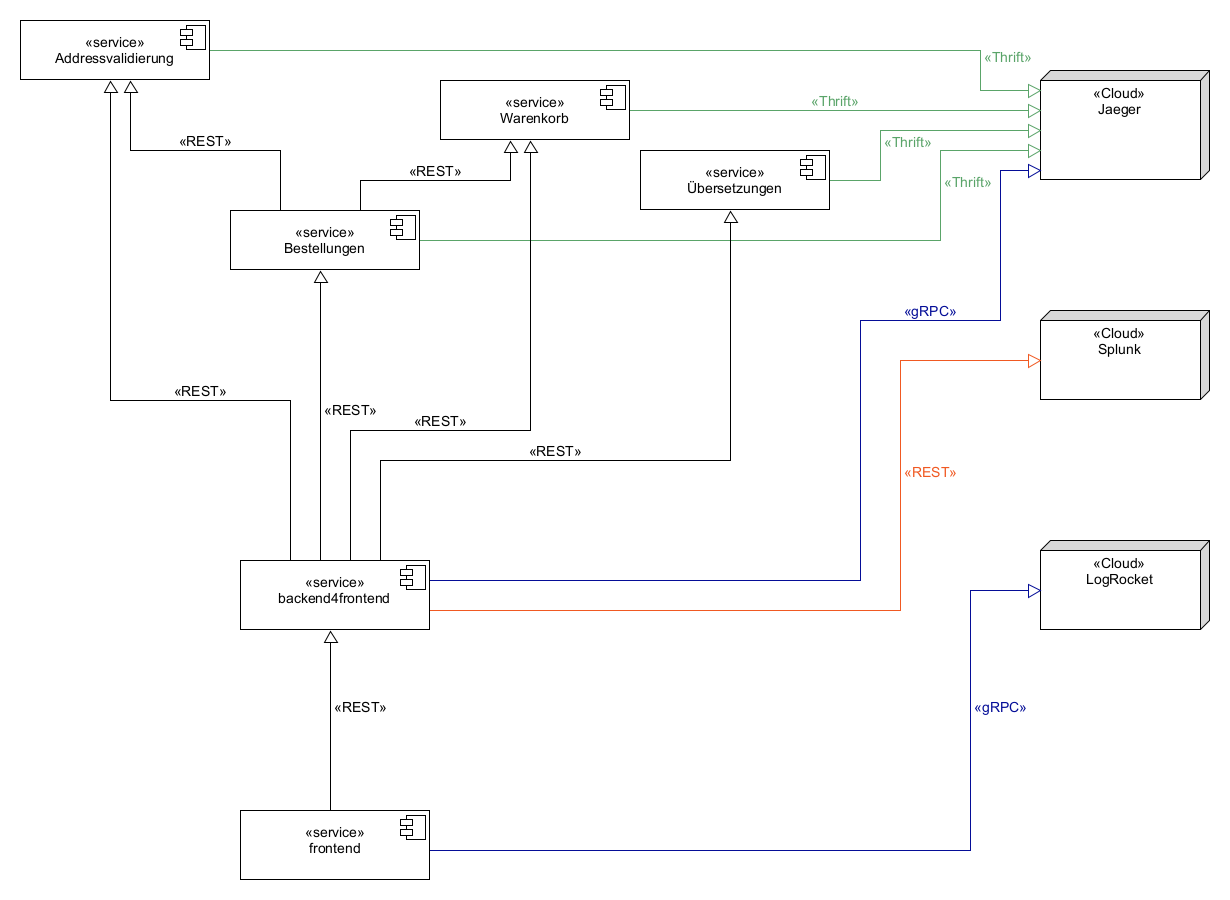
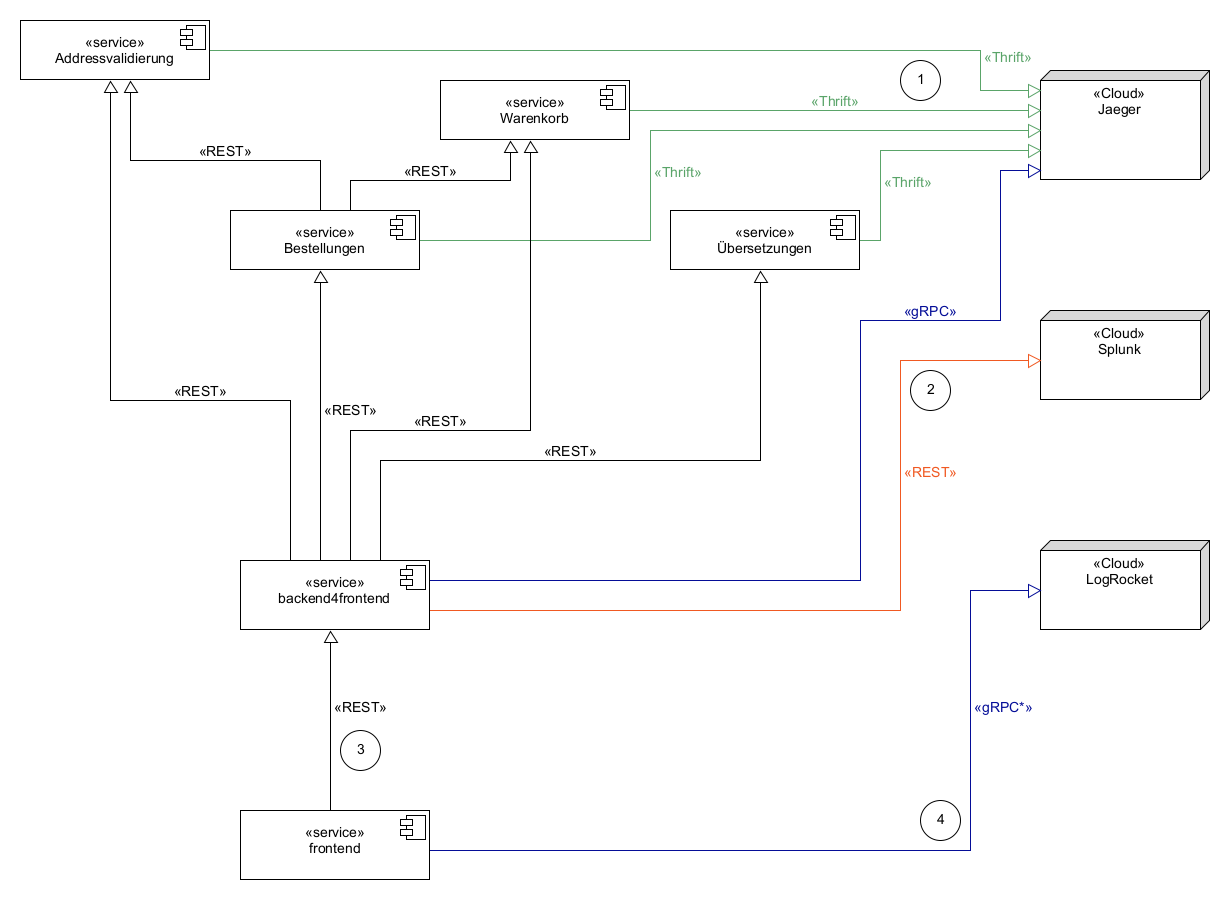
[ELAB-434] extend explanation of the solution

diff --git a/content/04_erstellung-poc/implementierung-code/record-consent-dialog.component.ts b/content/04_erstellung-poc/implementierung-code/record-consent-dialog.component.ts
@@ -1,0 +1,28 @@
+export class RecordConsentDialogComponent {
+  constructor(
+    public dialogRef: MatDialogRef<RecordConsentDialogComponent>,
+    @Inject(APP_CONFIG) private config: AppConfig
+  ) { }
+
+  closeDialog() {
+    this.dialogRef.close(window.logrocketData.sessionURL);
+  }
+
+  activateLogRocket() {
+    // initialize session recording
+    LogRocket.init(this.config.logRocketAppId, {});
+
+    // start a new session
+    LogRocket.startNewSession();
+
+    // pass unique "session"-id to LogRocket
+    LogRocket.identify(window.customer.shoppingCartId);
+
+    // make sessionURL accessable
+    LogRocket.getSessionURL((sessionURL) => {
+      window.logrocketData.sessionURL = sessionURL;
+
+      this.dialogRef.close(sessionURL);
+    });
+  }
+}

diff --git a/content/04_erstellung-poc/implementierung-code/tracing_localization.service.ts b/content/04_erstellung-poc/implementierung-code/tracing_localization.service.ts
@@ -12,10 +12,9 @@ export class LocalizationService {
     this.log.info('getTranslations(): requesting translations');
     
     // start span with provided span as a parent
-    const span = this.tracer.startSpan(
-      'LocalizationService.getTranslations',
-      { /* attributes */},
-      parentSpan && api.setSpan(api.context.active(), parentSpan)
+    const span = this.traceUtil.startChildSpan(
+        this.tracer, 'LocalizationService.getTranslations', parentSpan,
+        { 'shoppingCartId': window.customer.shoppingCartId }
     );
 
     // generate a jaeger-compatible trace header from OTel span

diff --git a/content/04_erstellung-poc/implementierung-code/record-consent-dialog.component.html b/content/04_erstellung-poc/implementierung-code/record-consent-dialog.component.html
@@ -1,0 +1,12 @@
+<h1 mat-dialog-title>Einverständnis zur Aufnahme Ihrer Sitzung</h1>
+<div mat-dialog-content>
+  <!-- Textinhalt -->
+</div>
+<div mat-dialog-actions class="cardActions">
+  <button mat-raised-button (click)="closeDialog()" color="primary">
+    Abbrechen
+  </button>
+  <button mat-raised-button (click)="activateLogRocket()" color="accent">
+    Akzeptieren
+  </button>
+</div>

diff --git a/content/04_erstellung-poc/implementierung.tex b/content/04_erstellung-poc/implementierung.tex
@@ -21,11 +21,18 @@ captionpos = b,
 \label{fig:implementierung_jaeger-trace-example}
 \end{wrapfigure}
 
-In Jaeger erzeugt der o. g. Quellcode die in \autoref{fig:implementierung_jaeger-trace-example} zu sehenden Spans. Neben den Traces werden keine weiteren Daten von Backend-Komponenten erhoben, da das Hauptaugenmerk der Arbeit im Frontend liegt.
+In Jaeger erzeugt der o. g. Quellcode die in \autoref{fig:implementierung_jaeger-trace-example} zu sehenden Spans. Neben den Traces werden keine weiteren Daten von Backend-Komponenten erhoben, da das Hauptaugenmerk der Arbeit im Frontend liegt. Jedoch wird der Dienst \enquote{Backend4Frontend} dazu verwendet, die Daten aus dem Frontend an die Partnersysteme weiterzuleiten, wie im nächsten Abschnitt erläutert wird.
 
 \subsection{Frontend}
 
+\subsubsection{Datenweiterleitung im \enquote{Backend4Frontend}}
+
+Da Logs, Metriken und Fehler mit Splunk gesammelt werden, aber Splunk keine direkt aus dem Browser ansprechbare Schnittstelle bietet, müssen diese über einen Dienst vorher an Splunk weitergeleitet werden (vgl. \autoref{subsec:splunk}). Diese Einschränkung von Splunk geht jedoch damit einher, dass Splunk von der \enquote{Außenwelt} abgeschottet wird, sodass Unbefugte nicht Zugriff auf das System erhalten. Im weiterleitenden Dienst könnten zuvor die Daten validiert und gefiltert werden. Somit ist also ein weiterleitender Dienst notwendig, aber auch architektonisch sinnvoll. Weiterhin sind Tracingdaten an Jaeger zu berichten, dies ist aber erneut nicht möglich, da kein browserkompatibler Jaeger-Client identifiziert werden konnte. Dies wird in \autoref{subsec:traces-und-metriken} näher erläutert.
+
+Da der Dienst \enquote{Backend4Frontend} bereits zum Weiterleiten verwendet wird, wurde dieser erweitert, sodass er Traces, Logs, Metriken sowie Fehler entgegennehmen kann und diese an Jaeger bzw. Splunk sendet. Vor der eigentlichen Weiterleitung werden die Daten mit Kontextinformationen angereichert, wie der User-IP, der Browserversion usw. an. Die Traces werden dann über eine OpenTelemetry-Anbindung an Jaeger gesendet, die anderen Daten werden an die HEC-Schnittstelle \cite{SplunkHEC} von Splunk übertragen.
+
 \subsubsection{Traces und Metriken}
+\label{subsec:traces-und-metriken}
 
 Das Frontend erhebt ebenso wie das Backend Traces, aber zusätzlich werden auch Metriken, Logmeldungen und Fehler erhoben und gemeldet. Traces und Metriken werden auf Basis von OpenTelemetry JavaScript Komponenten \cite{OpenTelemetryJS} erhoben. Genauer werden diese Komponenten in einem Angular Modul (siehe \autoref{lst:app-observability}) initialisiert und der restlichen Anwendung über \enquote{providers} zur Verfügung gestellt. Hierbei wird der SPA ein \texttt{Tracer} bereitgestellt, mit dem Spans aufgezeichnet werden können, ein \texttt{Meter}, welcher es erlaubt Metriken zu erstellen, und eine \texttt{requestCounter}-Metrik, welches die Aufzeichnung der Aufrufanzahl schnittstellenübergreifend erlaubt.
 
@@ -60,11 +67,11 @@ captionpos = b,
      label = lst:localization.service
 ]{content/04_erstellung-poc/implementierung-code/tracing_localization.service.ts}
 
-Es wurde sich für die OpenTelemetry Implementierung für Tracing und Metriken im Frontend entschieden, da wie in \autoref{subsec:opentelemetry} beschrieben, OpenTelemetry einen vielversprechenden Standard darstellt. Weiterhin konnte keine Bibliothek identifiziert werden, die die Traces erhebt und direkt nach Jaeger sendet. Es gibt zwar einen Jaeger-Client für Node.js\footnote{Jaeger-Client für Node.js: \url{https://github.com/jaegertracing/jaeger-client-node}}, jedoch befindet sich das browserkompatible Pendant\footnote{Jaeger-Client für Browser: \url{https://github.com/jaegertracing/jaeger-client-javascript/}} seit 2017 in den Startlöchern. Weiterhin existiert ein OTel Exporter für Jaeger\footnote{OTel Jaeger Exporter: \url{https://github.com/open-telemetry/opentelemetry-js/tree/main/packages/opentelemetry-exporter-jaeger}}, welcher jedoch auch nur mit Node.js funktioniert. Grund hierfür ist, dass das zugrundeliegende Protokoll gRPC \cite{grpc} nicht komplett aus einer Browserumgebung aus unterstützt wird \cite{grpcWebLimitations}.
+Es wurde sich für die OpenTelemetry Implementierung für Tracing und Metriken im Frontend entschieden, da wie in \autoref{subsec:opentelemetry} beschrieben, OpenTelemetry einen vielversprechenden Standard darstellt. Weiterhin konnte keine Bibliothek identifiziert werden, die die Traces erhebt und direkt nach Jaeger sendet. Es gibt zwar einen Jaeger-Client für Node.js\footnote{Jaeger-Client für Node.js: \url{https://github.com/jaegertracing/jaeger-client-node}}, jedoch befindet sich das browserkompatible Pendant\footnote{Jaeger-Client für Browser: \url{https://github.com/jaegertracing/jaeger-client-javascript/}} seit 2017 in den Startlöchern \cite{JaegerJSClientUsageInABrowser}. Weiterhin existiert ein OTel Exporter für Jaeger\footnote{OTel Jaeger Exporter: \url{https://github.com/open-telemetry/opentelemetry-js/tree/main/packages/opentelemetry-exporter-jaeger}}, welcher jedoch auch nur mit Node.js funktioniert. Grund hierfür ist, dass das zugrundeliegende Protokoll gRPC \cite{grpc} nicht komplett aus einer Browserumgebung aus unterstützt wird \cite{grpcWebLimitations}.
 
 \nomenclature[Fachbegriff]{gRPC}{gRPC Remote-Procedure-Call}
 
-Die gesammelten OTel Tracingdaten werden über einen Standard-Exporter an das \enquote{Backend4Frontend} gesendet, welcher diese dann in ein Jaeger-konformes Format umwandelt und sie dann subsequent an Jaeger übertragt. Die Metrikdaten werden jedoch bereits im Frontend konvertiert, in ein Splunk-kompatibles Logformat. Nach der Konvertierung werden die Daten an den \texttt{SplunkForwardingService} übergeben, welcher im folgenden Abschnitt näher beschrieben wird.
+Die gesammelten OTel Tracingdaten werden über einen Standard-Exporter an das \enquote{Backend4Frontend} gesendet, welcher diese dann in ein Jaeger-konformes Format umwandelt und sie dann subsequent an Jaeger übertragt. Die Metrikdaten werden jedoch bereits im Frontend in ein Splunk-kompatibles Logformat konvertiert. Nach der Konvertierung werden die Daten an den \texttt{SplunkForwardingService} übergeben, welcher im folgenden Abschnitt näher beschrieben wird.
 
 \subsubsection{Logging}
 
@@ -79,7 +86,7 @@ captionpos = b,
      label = lst:logging_app.module
 ]{content/04_erstellung-poc/implementierung-code/logging_app.module.ts}
 
-Wie in den vorherigen Codebeispielen zum Tracing zu sehen war, kann ein \texttt{NGXLogger} im Konstruktor von Komponenten und Diensten injected werden. Logmeldungen die hiermit erfasst werden, werden je nach Konfiguration und Loglevel der jeweiligen Meldung in die Browserkonsole geschrieben. Über einen \texttt{NGXLoggerMonitor} lassen sich die Logmeldungen anzapfen, wie in \autoref{lst:splunk-logging-monitor} zu sehen ist. Hierbei werden die Logmeldungen in ein Splunkformat übertragen und dann über den \texttt{SplunkForwardingService} an das \enquote{Backend4Frontend} übertragen. Eine direkte Übertragung an Splunk ist nicht möglich, da Splunk nicht mit kompatiblen CORS-Headern antwortet. Das Backend4Frontend reichert neben dem Weiterleiten auch die Meldungen mit Kontextinformationen, wie der User-IP, der Browserversion usw. an.
+Wie in den vorherigen Codebeispielen zum Tracing zu sehen war, kann ein \texttt{NGXLogger} im Konstruktor von Komponenten und Diensten injected werden. Logmeldungen die hiermit erfasst werden, werden je nach Konfiguration und Loglevel der jeweiligen Meldung in die Browserkonsole geschrieben. Über einen \texttt{NGXLoggerMonitor} lassen sich die Logmeldungen anzapfen, wie in \autoref{lst:splunk-logging-monitor} zu sehen ist. Hierbei werden die Logmeldungen in ein Splunkformat übertragen und dann über den \texttt{SplunkForwardingService} an das \enquote{Backend4Frontend} übertragen.
 
 \lstinputlisting[
   language = JavaScript,
@@ -107,15 +114,46 @@ captionpos = b,
 
 \subsubsection{Session-Replay}
 
-LogRocket wird standardmäßig nicht aktiv, außer wenn der Nutzer explizit der Aufzeichnung zustimmt \citationneeded{}. Dies bedeutet jedoch auch, dass bis zur Zustimmung keine Sitzungsdaten aufgenommen wurden. Wenn der Nutzer zustimmt, wird, wie im \autoref{lst:session-replay_checkout.component} zu sehen ist, LogRocket initialisiert und mit identifizierenden Daten angereichert. Nach dem Warenkorbdialog und nach der Eingabe der Rechnungsadresse werden zudem weitere identifizierende Daten an LogRocket übermittelt. Die Aufnahme der Sitzung läuft größtenteils autonom, lediglich behandelte Fehler müssen LogRocket manuell übermittelt werden.
+\begin{wrapfigure}[10]{r}{0.27\textwidth}
+\centering
+\includegraphics[width=\linewidth]{img/04_erstellung-poc/implementierung_frontend_recording-consent_button-inactive.png}
+\caption{Button zum Öffnen des Dialogs}
+\label{fig:recording-consent_button-inactive}
+\end{wrapfigure}
+
+LogRocket wird standardmäßig nicht aktiv, außer wenn der Nutzer explizit der Aufzeichnung zustimmt. Dies bedeutet jedoch auch, dass bis zur Zustimmung keine Sitzungsdaten aufgenommen wurden. Klickt der Nutzer jedoch auf den, unten rechts in der Anwendung schwebenden, Button (vgl. \autoref{fig:recording-consent_button-inactive}), wird ein Einverständnis-Dialog geöffnet. Hierbei (vgl. \autoref{fig:recording-consent_dialog-inactive}) erhält der Nutzer eine Übersicht welche Daten aufgenommen werden und an wen diese dann weitergesendet werden. Stimmt der Nutzer zu, wird LogRocket initialisiert, wie im \autoref{lst:record-consent-dialog.component.html} sowie \autoref{lst:record-consent-dialog.component.ts} zu sehen ist. Nach dem Warenkorbdialog und nach der Eingabe der Rechnungsadresse werden zudem weitere identifizierende Daten an LogRocket übermittelt. Die Aufnahme der Sitzung läuft größtenteils autonom, lediglich behandelte Fehler müssen LogRocket manuell übermittelt werden.
+	
+\begin{figure}[H]
+	\centering
+	\includegraphics[width=1.00\linewidth]{img/04_erstellung-poc/implementierung_frontend_recording-consent_dialog-inactive.png}
+	\caption{Einverständnis-Dialog}
+	\label{fig:recording-consent_dialog-inactive}
+\end{figure}
+
+\lstinputlisting[
+  language = AngularTemplateHTML,
+basicstyle = {\footnotesize\fontfamily{pcr}\selectfont},
+   caption = Angular HTML-Template der Einverständnis-Komponente,
+captionpos = b,
+     label = lst:record-consent-dialog.component.html
+]{content/04_erstellung-poc/implementierung-code/record-consent-dialog.component.html}
 
 \lstinputlisting[
   language = JavaScript,
      style = ES6,
 basicstyle = {\footnotesize\fontfamily{pcr}\selectfont},
-   caption = Initialisierung von LogRocket in der Hauptkomponente,
+   caption = Initialisierung von LogRocket in der Einverständnis-Komponente,
 captionpos = b,
-     label = lst:session-replay_checkout.component
-]{content/04_erstellung-poc/implementierung-code/session-replay_checkout.component.ts}
+     label = lst:record-consent-dialog.component.ts
+]{content/04_erstellung-poc/implementierung-code/record-consent-dialog.component.ts}
 
-\subsubsection{Datenweiterleitung im \enquote{Backend4Frontend}}
+\subsection{Architektur}
+
+Abschließend lässt sich somit folgende, in \autoref{fig:implementierung_architektur} zu betrachtende, Architektur visualisieren. Bei \circled{1} lässt sich die Übertragung von Spans an Jaeger betrachten, bei dem die Backend-Dienste aufgrund der verwendeten Java-Anbindung (\texttt{io\allowbreak{}.\allowbreak{}jaegertracing\allowbreak{}:\allowbreak{}jaeger-client}) die Spans über das Protokoll \enquote{Apache Thrift} \cite{Thrift} berichten und das \enquote{Backend4Frontend} verwendet zur Weiterleitung eine OTel-Anbindung an Jaeger, die widerum gRPC verwendent. Die Übertragung von Log-, Metrik sowie Fehlerdaten lässt sich bei \circled{2} betrachten, dabei handelt es sich um Daten, die zuvor vom Frontend gesendet wurden (vgl. \circled{3}). Die Kommunikation mit LogRocket (vgl. \circled{4}) funktioniert hingegen ohne Weiterleitung und über eine proprietäre Kommunikation auf Basis von gRPC.
+
+\begin{figure}[H]
+	\centering
+	\includegraphics[width=1.00\linewidth]{img/04_erstellung-poc/implementierung.png}
+	\caption{Architektur des Proof-of-Concepts}
+	\label{fig:implementierung_architektur}
+\end{figure}

diff --git a/content/04_erstellung-poc/vorstellung-demoanwendung.tex b/content/04_erstellung-poc/vorstellung-demoanwendung.tex
@@ -1,6 +1,6 @@
 % \section{Vorstellung der Demoanwendung}
 
-Wie zuvor erwähnt wird zunächst eine Demoanwendung erstellt. Dieser Abschnitt beschäftigt sich mit der Vorstellung der Demoanwendung, wie diese aufgebaut ist und was für eine Art von Webanwendung sie repräsentiert.
+Wie zuvor erwähnt wird zunächst eine Demoanwendung erstellt, an der das zu erstellende Konzept anzuwenden ist. Dieser Abschnitt beschäftigt sich mit der Vorstellung der Demoanwendung, wie diese aufgebaut ist und was für eine Art von Webanwendung sie repräsentiert.
 
 In der Motivation ist ein konkretes Problem eines Kunden der Open Knowledge genannt. Damit die Demoanwendung realistisch eine moderne Webanwendung \cite{RichWebBasedApplications} darstellt, wird sie in Grundzügen den Aufbau der Webanwendung des Direktversicherers nachahmen. Bei der Webanwendung handelt es sich um einen Wizard \cite{EzMolAWebServerWizard}, also einer Sequenz von aufeinanderfolgenden Dialogseiten bei dem der Nutzer Daten eingeben soll. Bei der Webanwendung handelt es sich um eine clientbasierte Angular-SPA. Die Webanwendung validiert einzelne Felder gegen Partnersysteme (bspw. beim Adressfeld). Am Ende des Wizards werden die gesamten Daten an ein weiteres Partnersystem übermittelt, welches darauf basierend eine Berechnung durchführt und das Ergebnis dann an die Webanwendung sendet.
 
@@ -168,9 +168,9 @@ Wie in \autoref{anf:1020} definiert wurden in das Frontend einige Fehler eingeba
 \subsection{Fehlerszenarien}
 \label{subsec:fehlerszenarien}
 
-Wie zuvor erwähnt und in \autoref{anf:1020} gewünscht, besitzt die Demoanwendung einige simulierte Fehler. Diese Fehler wurden in Zusammenarbeit mit den Stakeholdern konzipiert. Bei der Konzeption wurde versucht möglichst realitätsnahe oder sogar tatsächlich beim Kunden aufgetretene Probleme einzubauen.
+Um später mithilfe der Observability-Werkzeuge Probleme aufzudecken, besitzt die Demoanwendung einige simulierte problembehaftete Implementierungen. Diese Fehler wurden in Zusammenarbeit mit den Stakeholdern konzipiert. Bei der Konzeption wurde versucht möglichst realitätsnahe oder sogar tatsächlich beim Kunden aufgetretene Probleme einzubauen.
 
-Diese Fehler gehören unterschiedlichen Problemgruppen an, sie reichen von unerwünscht strenger Validierung, über Konfigurationsfehlern bis hin zu ineffizienter Datenverarbeitung. Sie werden folgen in Fehlerszenarien beschrieben, aus der Sicht eines Projektteams, welches diese Szenarien berichtet bekommen oder selbst notiert hat.
+Diese Fehler gehören unterschiedlichen Problemgruppen an, sie reichen von unerwünscht strenger Validierung, über Konfigurationsfehlern bis hin zu ineffizienter Datenverarbeitung. Sie werden folgend in Fehlerszenarien beschrieben, aus der Sicht eines Projektteams, welches diese Szenarien berichtet bekommen oder selbst notiert hat.
 
 \subsubsection{\enquote{Keine Übersetzungen}}
 

diff --git a/content/00_preamble/configuration.tex b/content/00_preamble/configuration.tex
@@ -49,7 +49,7 @@
 	\begin{table}[H]
 	\begin{tabular}{ |p{1.25cm}|p{5.5cm}|p{2.25cm}|p{2.1cm}|p{1.25cm}| }
 \hline
-Id   & Name          & Kano-Modell  & Funktionsart & Quelle       \\
+Id	 & Name					& Kano-Modell	& Funktionsart & Quelle			 \\
 #2 & #3 & #4 & #5 & #6 \\
 \hline
 }%
@@ -90,6 +90,49 @@ Id   & Name          & Kano-Modell  & Funktionsart & Quelle       \\
 	morecomment=[l]{\#},
 	morestring=[b]",
 	morestring=[b]',
+	% fix umlaute causing issues
+	% https://tex.stackexchange.com/questions/24528/having-problems-with-listings-and-utf-8-can-it-be-fixed/24529
+	extendedchars=true,
+	literate={ä}{{\"a}}1 {ö}{{\"o}}1 {ü}{{\"u}}1 {Ä}{{\"A}}1 {Ö}{{\"O}}1 {Ü}{{\"U}}1 {ß}{{\ss}}1,
+}
+
+\lstdefinelanguage{AngularTemplateHTML}{
+	language=html,
+	sensitive=true,	
+	alsoletter={<>=-},
+	morecomment=[s]{<!-}{-->},
+	tag=[s],
+	otherkeywords={
+	% General
+	>,
+	% Standard tags
+	<!DOCTYPE,
+	</html, <html, <head, <title, </title, <style, </style, <link, </head, <meta, />,
+	% body
+	</body, <body,
+	% Divs
+	</div, <div, </div>, 
+	% Paragraphs
+	</p, <p, </p>, </h1, <h1, </h2, <h2, </h3, <h3, </h4, <h4, </h5, <h5, </h6, <h6,
+	% scripts
+	</script, <script,
+	% More tags...
+	<canvas, /canvas>, <svg, <rect, <animateTransform, </rect>, </svg>, <video, <source, <iframe, </iframe>, </video>, <image, </image>, <header, </header, <article, </article, <button, </button
+	},
+	ndkeywords={
+	% General
+	=,
+	% HTML attributes
+	charset=, src=, id=, width=, height=, style=, type=, rel=, href=, class=, color=, (click)=,
+	% SVG attributes
+	fill=, attributeName=, begin=, dur=, from=, to=, poster=, controls=, x=, y=, repeatCount=, xlink:href=,
+	% properties
+	margin:, padding:, background-image:, border:, top:, left:, position:, width:, height:, margin-top:, margin-bottom:, font-size:, line-height:,
+	% CSS3 properties
+	transform:, -moz-transform:, -webkit-transform:,
+	animation:, -webkit-animation:,
+	transition:,	transition-duration:, transition-property:, transition-timing-function:,
+	},
 	% fix umlaute causing issues
 	% https://tex.stackexchange.com/questions/24528/having-problems-with-listings-and-utf-8-can-it-be-fixed/24529
 	extendedchars=true,

diff --git a/content/00_preamble/js_listing.tex b/content/00_preamble/js_listing.tex
@@ -21,12 +21,13 @@
 
 \lstdefinelanguage{JavaScript}{
   morekeywords=[1]{break, continue, delete, else, for, function, if, in,
-    new, return, this, typeof, var, void, while, with},
+    new, return, this, typeof, var, void, while, with, =>, constructor, window, class, interface, enum, declare, const, var, typeof},
   % Literals, primitive types, and reference types.
   morekeywords=[2]{false, null, true, boolean, number, undefined,
-    Array, Boolean, Date, Math, Number, String, Object},
+    Array, Boolean, Date, Math, Number, String, Object, void, any, string, private, public, protected},
   % Built-ins.
-  morekeywords=[3]{eval, parseInt, parseFloat, escape, unescape},
+  morekeywords=[3]{eval, parseInt, parseFloat, escape, unescape, pipe, tap, subscribe},
+  morekeywords=[4]{@Injectable, @NgModule, @Inject},
   sensitive,
   morecomment=[s]{/*}{*/},
   morecomment=[l]//,
@@ -64,6 +65,7 @@
   keywordstyle=\color{mediumblue},
   keywordstyle={[2]\color{darkviolet}},
   keywordstyle={[3]\color{royalblue}},
+  keywordstyle={[4]\color{mediumblue}},
   numbers=left,
   numbersep=5pt,
   numberstyle=\color{black},

diff --git a/content/00_preamble/java_listing.tex b/content/00_preamble/java_listing.tex
@@ -50,5 +50,7 @@
 	keywordstyle={\color{lstkeyword}\bfseries},
 	stringstyle={\color{lststring}},
 	moredelim={[il][\textcolor{lstannotation}]{§§}},
-	moredelim={[is][\textcolor{lstannotation}]{\%\%}{\%\%}}
+	moredelim={[is][\textcolor{lstannotation}]{\%\%}{\%\%}},
+    keywordstyle={[2]\color{lstannotation}},
+    morekeywords=[2]{@Path, @RequestScoped, @ApplicationScoped, @Inject, @PostConstruct, @Produces, @Consumes, @POST, @GET, @OPTIONS, @Traced}
 }
